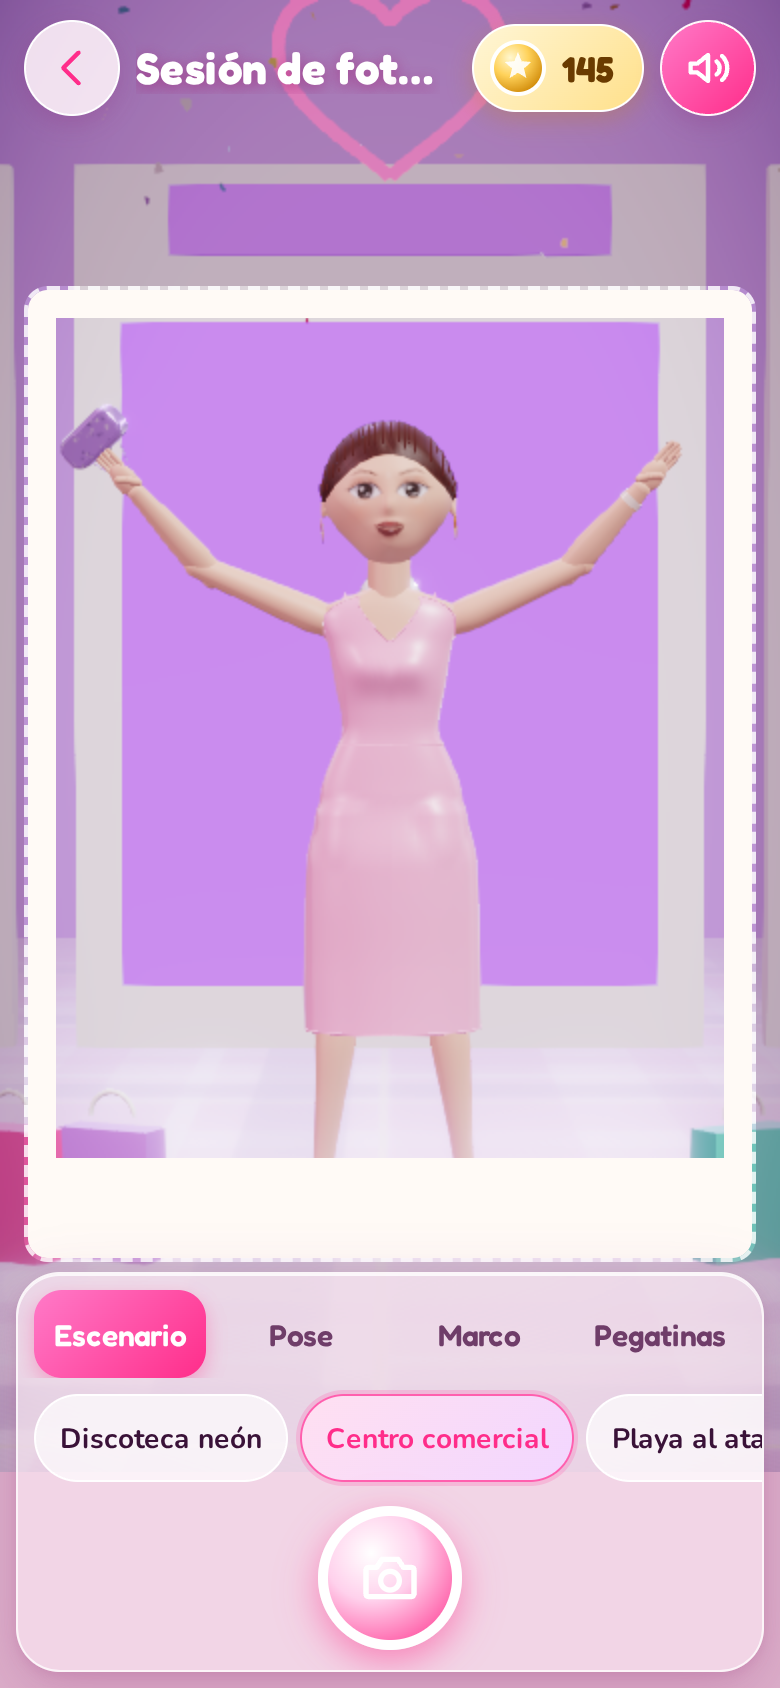
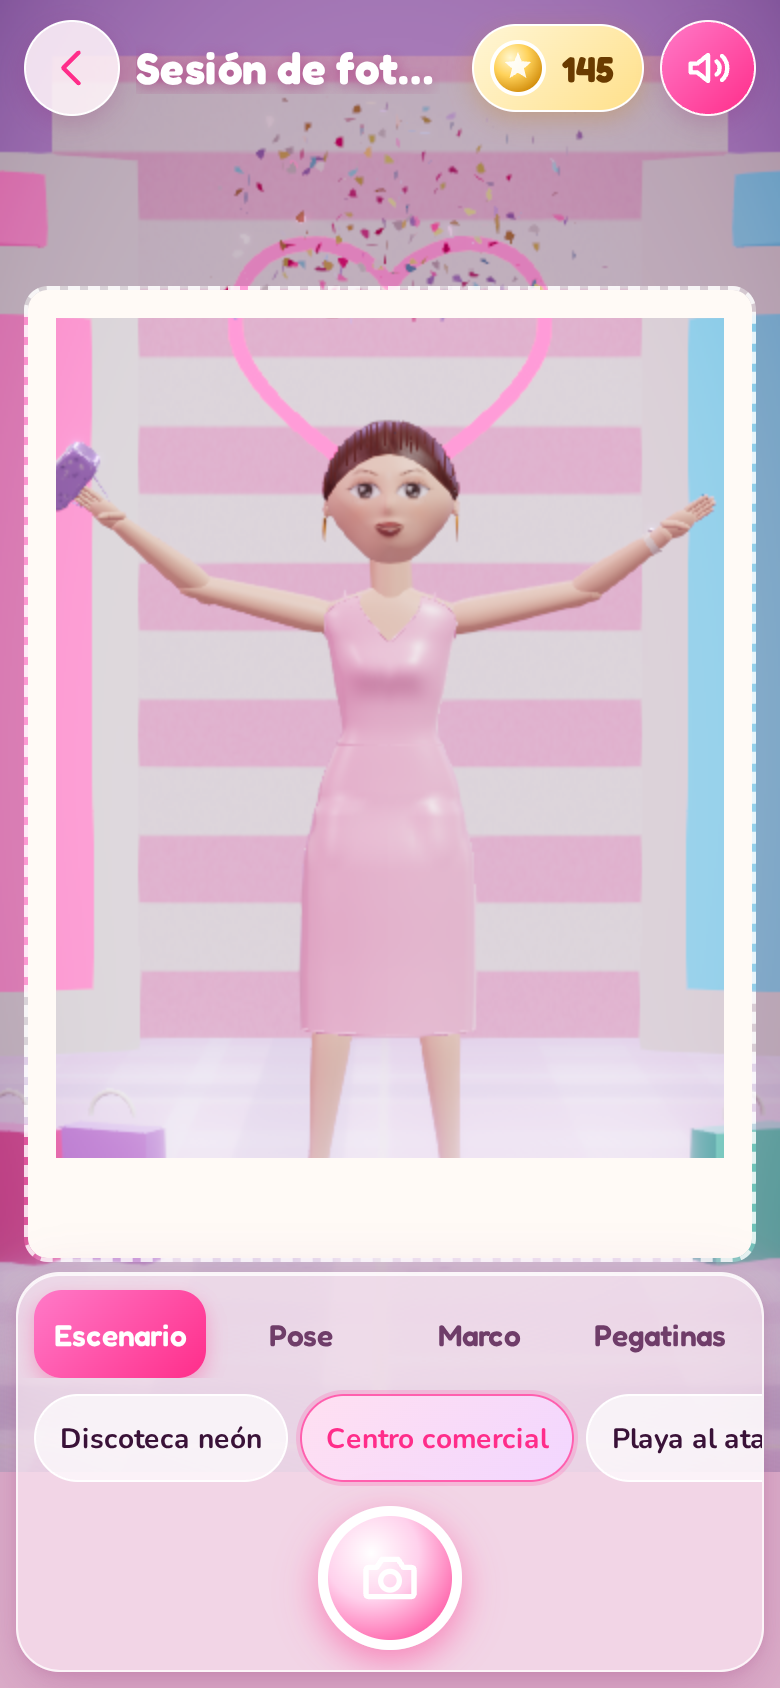
Recaptura del centro comercial rediseñado (6 → 7)
Claude-Session: https://claude.ai/code/session_01WMZpdnw61Aj1X4ppDSNFFX

diff --git a/docs/visual-review.md b/docs/visual-review.md
@@ -148,7 +148,7 @@ Las capturas están en `docs/screenshots/<ronda>/`, con un viewport de 390×844 
 | 14 reto | 7 | 8 | 8 | 8 | 8 | 7 | 7 | Correcta |
 | 15 jurado | 8 | 8 | 8 | 8 | 8 | 8 | 8 | Correcta |
 | 16 disco | 7 | 8 | 8 | 8 | 8 | 8 | 7 | Correcta |
-| 16 centro comercial | 7 | 8 | 6 | 6 | 8 | 6 | 6 | El escaparate lila llena el fondo |
+| 16 centro comercial (rediseñado) | 7 | 8 | 7 | 7 | 8 | 7 | 7 | Pared de rayas, corazón de neón y escaparates en ángulo: ya es coherente, aunque algo pastel |
 | 16 playa | 7 | 8 | 8 | 8 | 8 | 8 | 7 | Correcta |
 | 16 alfombra roja | 7 | 8 | 8 | 8 | 8 | 8 | 7 | Correcta |
 | 16 habitación Y2K | 7 | 8 | 7 | 8 | 8 | 7 | 7 | Correcta |
@@ -166,6 +166,6 @@ Las capturas están en `docs/screenshots/<ronda>/`, con un viewport de 390×844 
 
 - La interfaz, la iluminación, la ropa (sin clipping) y los escenarios llegan a 7–8.
 - El criterio que más baja la nota es la **calidad de los personajes (7)**. Las muñecas son 100 % procedurales, construidas con geometría generada por código y una cara pintada en textura. Tienen un estilo de muñeca coherente y bonito, pero no alcanzan el acabado de un personaje modelado y esculpido a mano por un artista.
-- El **centro comercial (6)** es el escenario más flojo.
+- El **centro comercial**, que era el escenario más flojo (6), sube a 7 tras rediseñarlo. Ya no queda ninguna captura por debajo de 7.
 
 Subir de 7 a 8 de forma generalizada necesitaría modelos GLB/VRM hechos por un artista. El sistema está preparado para incorporarlos en `/assets`.
